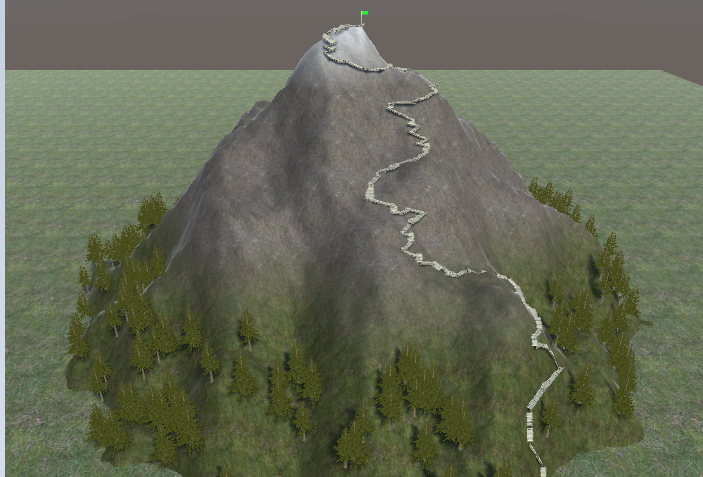
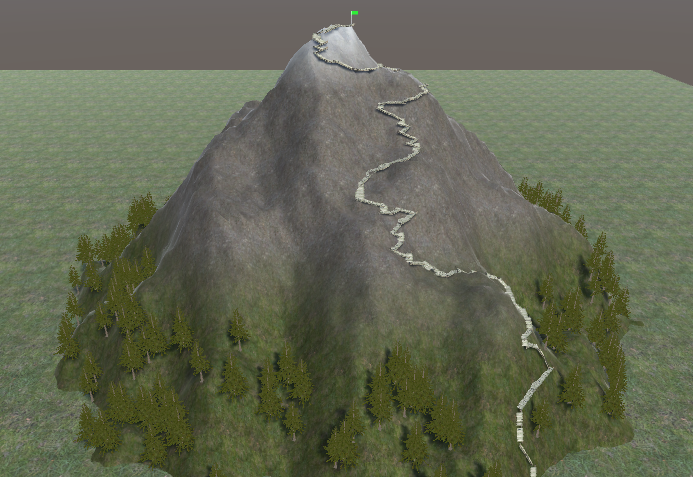
Improvements to work experience Tab

diff --git a/Styles.css b/Styles.css
@@ -122,6 +122,22 @@ body {
     color: var(--text);
 }
 
+/* Subheading used to split a page into named groups, e.g. "Software
+   Engineering" vs "Other Experience" on the Work Experience page. */
+.section-label {
+    font-size: 0.8em;
+    text-transform: uppercase;
+    letter-spacing: 1px;
+    color: var(--text-muted);
+    border-bottom: 1px solid var(--border);
+    padding-bottom: 8px;
+    margin: 32px 0 16px 0;
+}
+
+.section-label:first-of-type {
+    margin-top: 20px;
+}
+
 /* Small pill-shaped tags, e.g. skills or tech-used labels */
 .tag-list {
     list-style: none;
@@ -141,13 +157,16 @@ body {
     font-size: 0.85em;
 }
 
-/* One project entry on the Projects page */
+/* One project entry on the Projects page. overflow: hidden lets the cover
+   image below bleed to the card's edges while still respecting its
+   rounded corners. */
 .project-card {
     background: var(--sidebar-bg);
     border: 1px solid var(--border);
     border-radius: var(--radius);
     padding: 20px 24px;
     margin-bottom: 24px;
+    overflow: hidden;
 }
 
 .project-card:last-child {
@@ -168,11 +187,16 @@ body {
     text-decoration: underline;
 }
 
-/* Cover image at the top of a project card */
+/* Cover image at the top of a project card. Negative margins cancel out
+   the card's own padding so the image reaches all the way to the top/left/
+   right edges instead of floating inside with a gap. A fixed aspect-ratio
+   keeps every card's image the same shape regardless of the source photo's
+   size, and object-fit: cover crops it to fill that shape without stretching. */
 .project-image {
-    width: 100%;
-    border-radius: var(--radius);
-    margin-bottom: 16px;
+    width: calc(100% + 48px);
+    margin: -20px -24px 16px -24px;
+    aspect-ratio: 16 / 9;
+    object-fit: cover;
     display: block;
 }
 

diff --git a/work-experience.html b/work-experience.html
@@ -24,6 +24,15 @@
     <div class="content">
 
         <h2>Work Experience</h2>
+        <p>
+            My path into software started with a game development internship,
+            moved through certified interface work at Thales, and has landed
+            me full-time at marXact. Alongside that, I spent years in more
+            hands-on jobs - baking and construction - throughout school and
+            university.
+        </p>
+
+        <h3 class="section-label">Software Engineering</h3>
 
         <!--
             EXPERIENCE ITEM TEMPLATE
@@ -37,6 +46,11 @@
                 <span class="experience-dates">May 2024 - Present</span>
             </div>
             <p class="experience-subtitle">marXact, UNI-Machine team</p>
+            <ul>
+                <li>Develop new features for the UNI-Machine product</li>
+                <li>Help resolve active customer issues</li>
+                <li>Build and test front-end UI/UX improvements</li>
+            </ul>
         </div>
 
         <div class="experience-item">
@@ -61,6 +75,13 @@
                 <li>Team-work</li>
             </ul>
         </div>
+        <!-- END EXPERIENCE ITEM -->
+
+        <h3 class="section-label">Other Experience</h3>
+        <p>
+            Alongside my studies, I also worked jobs with a very different
+            pace - useful for a different kind of discipline than software.
+        </p>
 
         <div class="experience-item">
             <div class="experience-header">
@@ -85,7 +106,6 @@
                 <li>Physically demanding work</li>
             </ul>
         </div>
-        <!-- END EXPERIENCE ITEM -->
 
     </div>
 
